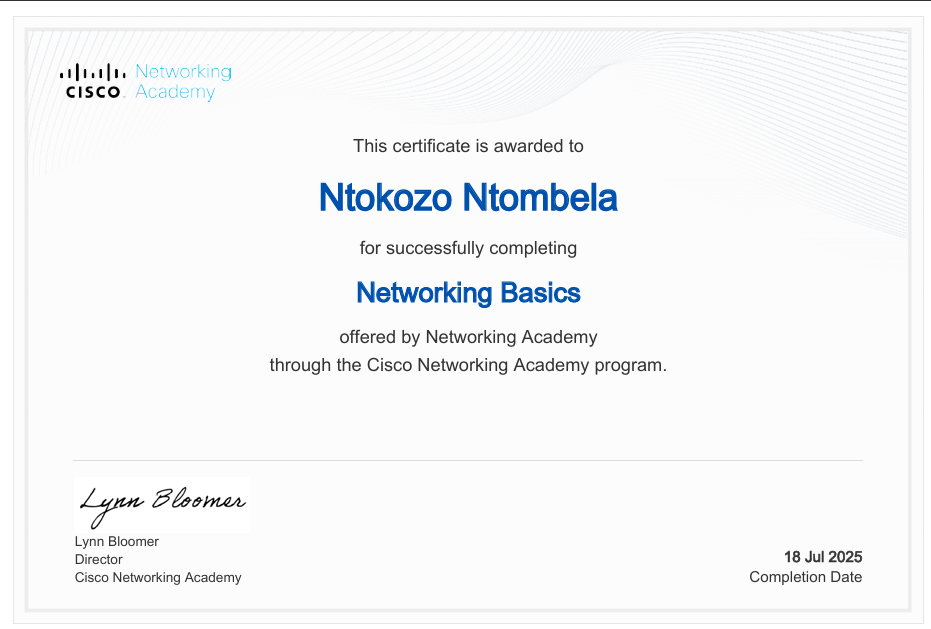
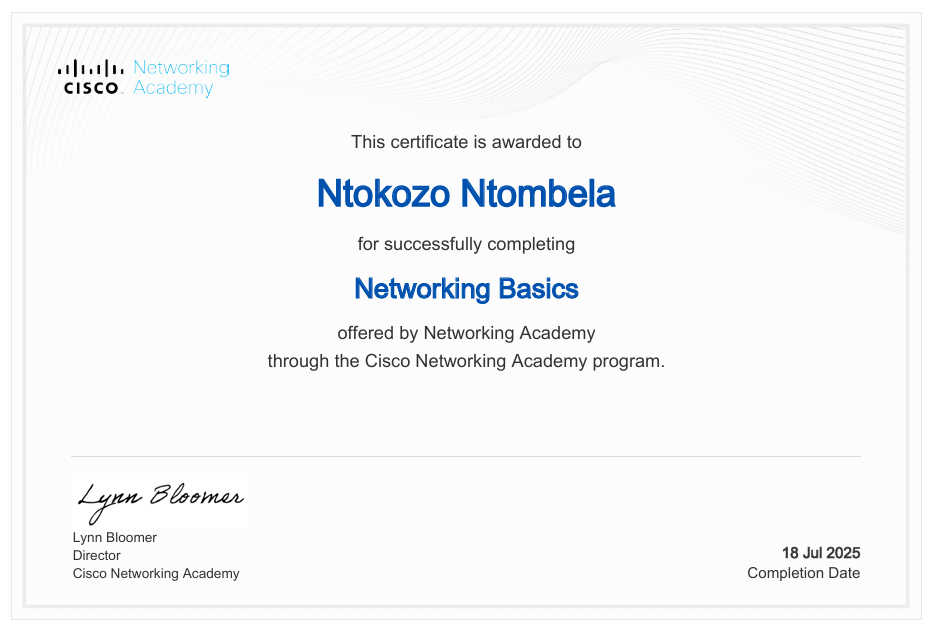
Update portfolio data: Add Honours degree, DataCamp cert, and pivot to DP-700

diff --git a/index.html b/index.html
@@ -996,19 +996,19 @@
             <div class="section-title">
                 <h2>About Me</h2>
             </div>
-            <div class="about-content">
-                <div class="about-text">
-                    <p>
-    I am a recent <strong>ICT Graduate</strong> from the Durban University of Technology, passionate about the intersection of <strong>Software Engineering</strong> and <strong>Data Engineering</strong>. While many graduates focus solely on code, I focus on the <em>lifecycle of data</em>—building automated systems that ingest, clean, and transform raw information into clear, actionable insights.
-</p>
-<p>
-    My technical foundation is built on <strong>Python, SQL, and Cloud Architectures</strong> (Azure & Databricks). I distinguish myself by applying <strong>DevOps and Security principles</strong> (gained from Cisco & FNB training) to my pipelines, ensuring that the systems I build are not just functional, but scalable, secure, and robust.
-</p>
-<p>
-    Having successfully deployed end-to-end solutions like <strong>InsightOps</strong>, I am actively seeking a <strong>Data Engineering Internship</strong>. I am eager to apply my hands-on skills in ETL automation, Big Data processing (Spark), and cloud infrastructure to solve real-world business challenges.
-</p>
-                </div>
-            </div>
+           <div class="about-content">
+    <div class="about-text">
+        <p>
+            I am an ICT Graduate (Class of 2025) and incoming Bachelor of ICT Honours student at the Durban University of Technology. My focus is on the intersection of Software Engineering and Data Engineering, with a strong interest in the full data lifecycle from ingestion and transformation to analytics ready delivery.
+        </p>
+        <p>
+            I work with Python, SQL, Azure, and Databricks to build automated data pipelines that are reliable, maintainable, and aligned with real-world business needs. My academic foundation, combined with industry certifications such as DataCamp Associate Data Engineer , Azure Data Fundamentals andDatabricks Fundamentals, supports my ability to design scalable data workflows and apply sound data practices.
+        </p>
+        <p>
+            Through projects like InsightOps and an automated Job Market Pipeline, I have built end-to-end solutions involving data ingestion, cleaning, transformation, and delivery for analysis. I am currently seeking Graduate Data Engineer or Data Engineering Internship role where I can contribute to building robust data platforms while continuing to grow in cloud and data engineering.
+        </p>
+    </div>
+</div>
         </div>
     </section>
 
@@ -1024,8 +1024,8 @@
                 <div class="skill-category">
                     <h3>Data Engineering & Big Data</h3>
                     <ul class="skills-list">
-                        <li><i class="fas fa-bolt"></i> <strong>Apache Spark</strong> (PySpark)</li>
-                        <li><i class="fas fa-layer-group"></i> <strong>Databricks  `</strong>  & Delta Lake</li>
+                        <li><i class="fas fa-bolt"></i> Apache Spark (PySpark)</li>
+                        <li><i class="fas fa-layer-group"></i> Databricks  & Delta Lake</li>
                         <li><i class="fas fa-cogs"></i> ETL/ELT Pipeline Design</li>
                         <li><i class="fas fa-database"></i> SQL</li>
                         <li><i class="fas fa-table"></i> Pandas & NumPy</li>
@@ -1036,7 +1036,7 @@
                 <div class="skill-category">
                     <h3>Software & Backend</h3>
                     <ul class="skills-list">
-                        <li><i class="fab fa-python"></i> <strong>Python</strong> (Scripting & OOP)</li>
+                        <li><i class="fab fa-python"></i> Python (Scripting & OOP)</li>
                         <li><i class="fas fa-server"></i> Flask Web Framework</li>
                         <li><i class="fas fa-code"></i> REST API Development</li>
                         <li><i class="fas fa-code-branch"></i> Git & GitHub Version Control</li>
@@ -1048,7 +1048,7 @@
                 <div class="skill-category">
                     <h3>Cloud & Security</h3>
                     <ul class="skills-list">
-                        <li><i class="fab fa-microsoft"></i> <strong>Azure Data Services</strong></li>
+                        <li><i class="fab fa-microsoft"></i> Azure Data Services</li>
                         <li><i class="fas fa-cloud"></i> Render Cloud Deployment</li>
                         <li><i class="fab fa-linux"></i> Linux Administration (CLI)</li>
                         <li><i class="fas fa-shield-alt"></i> Cybersecurity Fundamentals</li>
@@ -1081,18 +1081,6 @@
             </div>
 
             <div class="certificate-card">
-                <div class="certificate-img" style="background-image: url('images/spark.png'); background-size: contain; background-repeat: no-repeat; background-position: center;"></div>
-                <div class="certificate-content">
-                    <h3>IBM Spark Fundamentals I</h3>
-                    <p>Specialized certification in Big Data processing. Mastered Resilient Distributed Datasets (RDDs) and data transformations using Apache Spark.</p>
-                    <div class="project-links">
-                        <div class="certificate-date">Issued: Nov 2025</div>
-                        
-                    </div>
-                </div>
-            </div>
-
-            <div class="certificate-card">
                 <div class="certificate-img" style="background-image: url('images/azure.png'); background-size: contain; background-repeat: no-repeat; background-position: center;"></div>
                 <div class="certificate-content">
                     <h3>Azure Data Fundamentals (DP-900)</h3>
@@ -1104,10 +1092,34 @@
                 </div>
             </div>
 
+            <div class="certificate-card">
+                <div class="certificate-img" style="background-image: url('images/datacamp.png'); background-size: contain; background-repeat: no-repeat; background-position: center;"></div>
+                <div class="certificate-content">
+                    <h3>DataCamp Associate Data Engineer</h3>
+                    <p>Hands-on certification validating applied skills in Python, SQL, and building robust data pipelines and architectures.</p>
+                    <div class="project-links">
+                        <div class="certificate-date">Issued: Feb 20, 2026</div>
+                        <a href="https://www.datacamp.com/certificate/DEA0010659484472" target="_blank" class="credential-btn"><i class="fas fa-external-link-alt"></i> View Credential</a>
+                    </div>
+                </div>
+            </div>
+
         </div> 
+        
         <div id="more-certificates" style="display: none;">
             <div class="cert-grid">
                 
+                <div class="certificate-card">
+                    <div class="certificate-img" style="background-image: url('images/spark.png'); background-size: contain; background-repeat: no-repeat; background-position: center;"></div>
+                    <div class="certificate-content">
+                        <h3>IBM Spark Fundamentals I</h3>
+                        <p>Specialized certification in Big Data processing. Mastered Resilient Distributed Datasets (RDDs) and data transformations using Apache Spark.</p>
+                        <div class="project-links">
+                            <div class="certificate-date">Issued: Nov 2025</div>
+                        </div>
+                    </div>
+                </div>
+
                 <div class="certificate-card">
                     <div class="certificate-img" style="background-image: url('images/FNB.png'); background-size: contain; background-repeat: no-repeat; background-position: center;"></div>
                     <div class="certificate-content">
@@ -1115,7 +1127,6 @@
                         <p>Hands-on mobile and backend engineering training. Covered GitHub, API design, UX principles, backend services, and AI-driven app features.</p>
                         <div class="project-links">
                             <div class="certificate-date">Issued: July 2025</div>
-                           
                         </div>
                     </div>
                 </div>
@@ -1127,7 +1138,6 @@
                         <p>Demonstrated knowledge of machine learning, computer vision, and Natural Language Processing (NLP) workloads on Azure.</p>
                         <div class="project-links">
                             <div class="certificate-date">Issued: July 18, 2025</div>
-                           
                         </div>
                     </div>
                 </div>
@@ -1151,19 +1161,6 @@
                         <p>Mastered the Linux command line (CLI), file permissions, and system administration basics.</p>
                         <div class="project-links">
                             <div class="certificate-date">Issued: Oct 2024</div>
-                           
-                        </div>
-                    </div>
-                </div>
-
-                <div class="certificate-card">
-                    <div class="certificate-img" style="background-image: url('images/Ne.png'); background-size: contain; background-repeat: no-repeat; background-position: center;"></div>
-                    <div class="certificate-content">
-                        <h3>Network basics</h3>
-                        <p>Gained a foundational understanding of network architecture, the OSI model, TCP/IP protocols, and basic router/switch configuration.</p>
-                        <div class="project-links">
-                            <div class="certificate-date">Issued: 2025</div>
-                            <a href="https://www.credly.com/badges/e32581ad-3b20-4302-87fd-2eed54ffef24" target="_blank" class="credential-btn"><i class="fas fa-external-link-alt"></i> View Credential</a>
                         </div>
                     </div>
                 </div>
@@ -1175,7 +1172,6 @@
                         <p>Training on the Lakehouse Platform. Learned to unify data warehousing.</p>
                         <div class="project-links">
                             <div class="certificate-date">Issued: Nov 2025</div>
-                            
                         </div>
                     </div>
                 </div>
@@ -1190,8 +1186,7 @@
     </div>
 </section>
 
-   <!-- Timeline Section -->
-    <section id="timeline" style="background-color: var(--bg);">
+   <section id="timeline" style="background-color: var(--bg);">
         <div class="container">
             <div class="section-title">
                 <h2>Education & Experience</h2>
@@ -1199,58 +1194,63 @@
             <div class="timeline">
                 <div class="timeline-progress" id="timelineProgress"></div>
                 
-                <!-- Degree -->
                 <div class="timeline-item">
                     <div class="timeline-dot"></div>
                     <div class="timeline-content">
-                        <div class="timeline-date">2023 - 2025 (Graduated)</div>
-                        <h3>ICT Degree</h3>
+                        <div class="timeline-date">2023 - 2025</div>
+                        <h3>Bachelor of ICT</h3>
                         <p>Durban University of Technology</p>
-                        <p><strong>Completed.</strong> Specialized in Application Development and Data Systems. Final year focused on backend logic, database management, and system security.</p>
+                        <p>Graduated. Specialized in Application Development. Achieved distinctions in Business Intelligence and Machine Intelligence modules.</p>
                     </div>
                 </div>
 
-                <!-- Cisco & Linux Era -->
                 <div class="timeline-item">
                     <div class="timeline-dot"></div>
                     <div class="timeline-content">
                         <div class="timeline-date">2024 - May 2025</div>
                         <h3>Infrastructure & Security</h3>
                         <p>Cisco Networking Academy</p>
-                        <p>Completed <strong>Cybersecurity</strong> and <strong>Linux Unhatched</strong> certifications. Built a strong foundation in server administration and network defense.</p>
+                        <p>Completed Cybersecurity and Linux Unhatched certifications. Built a strong foundation in server administration and network defense.</p>
                     </div>
                 </div>
 
-                <!-- FNB & Data Engineering Pivot -->
                 <div class="timeline-item">
                     <div class="timeline-dot"></div>
                     <div class="timeline-content">
                         <div class="timeline-date">Mid 2025</div>
                         <h3>Full Stack Engineering</h3>
                         <p>FNB App Academy & DUT</p>
-                        <p>Intensive training in modern software architecture, API development, and banking systems.</p>
+                        <p>Intensive training in modern software architecture, API development, and enterprise banking systems.</p>
                     </div>
                 </div>
 
-                <!-- Big Data Specialization -->
                 <div class="timeline-item">
                     <div class="timeline-dot"></div>
                     <div class="timeline-content">
                         <div class="timeline-date">Late 2025</div>
                         <h3>Cloud Data Engineering</h3>
                         <p>IBM & Microsoft</p>
-                        <p>Earned certifications in <strong>Azure Data Fundamentals</strong>, <strong>Databricks</strong>, and <strong>Apache Spark</strong>. Transitioned from software dev to building scalable data pipelines.</p>
+                        <p>Earned certifications in Azure Data Fundamentals, Databricks, and Apache Spark. Transitioned from software dev to building scalable data pipelines.</p>
                     </div>
                 </div>
 
-                <!-- Current Status -->
+                <div class="timeline-item">
+                    <div class="timeline-dot"></div>
+                    <div class="timeline-content">
+                        <div class="timeline-date">2026 - Present</div>
+                        <h3>Bachelor of ICT Honours</h3>
+                        <p>Durban University of Technology</p>
+                        <p>Currently Enrolled. Specializing in Advanced Data Analytics, Cloud Computing, and Advanced Cybersecurity. Recently earned the DataCamp Associate Data Engineer certification.</p>
+                    </div>
+                </div>
+
                 <div class="timeline-item">
                     <div class="timeline-dot"></div>
                     <div class="timeline-content">
                         <div class="timeline-date">Present</div>
-                        <h3>Data Engineer</h3>
+                        <h3>Graduate Data Engineer</h3>
                         <p>Open to Work</p>
-                        <p>Successfully deployed and built multiple cloud-native ETL pipelines. Ready to join a team as a Data Engineer.</p>
+                        <p>Successfully deployed end-to-end cloud-native ETL pipelines. Ready to join a team as a Data Engineer.</p>
                     </div>
                 </div>
             </div>
@@ -1261,7 +1261,7 @@
     <div class="container">
         <div class="section-title">
             <h2>Featured Projects</h2>
-            <p>My portfolio focuses on the three pillars of modern Data Engineering: <strong>Cloud Architecture</strong>, <strong>Data Modeling</strong>, and <strong>Process Automation</strong>.</p>
+            <p>My portfolio focuses on the three pillars of modern Data Engineering: Cloud Architecture, Data Modeling, and Process Automation.</p>
         </div>
 
         <div class="projects-grid">
@@ -1272,7 +1272,7 @@
                 </div>
                 <div class="project-content">
                     <h3>Databricks Medallion Pipeline</h3>
-                    <p><strong>Cloud Big Data.</strong> An end-to-end ELT pipeline using PySpark and Delta Lake. I implemented a <strong>Medallion Architecture</strong> (Bronze → Silver → Gold) with Schema Enforcement and Time Travel for enterprise-grade data quality.</p>
+                    <p>Cloud Big Data. An end-to-end ELT pipeline using PySpark and Delta Lake. I implemented a Medallion Architecture (Bronze → Silver → Gold) with Schema Enforcement and Time Travel for enterprise-grade data quality.</p>
                     <div class="project-tech">
                         <span class="tech-tag">Databricks</span>
                         <span class="tech-tag">PySpark</span>
@@ -1291,7 +1291,7 @@
                 </div>
                 <div class="project-content">
                     <h3>InsightOps BI System</h3>
-                    <p><strong>Data Warehousing.</strong> A production-grade BI system built on a <strong>Star Schema</strong> with surrogate keys. It transforms raw e-commerce data into actionable KPIs (Churn, Profit Margin) and generates automated business alerts.</p>
+                    <p>Data Warehousing. A production-grade BI system built on a Star Schema with surrogate keys. It transforms raw e-commerce data into actionable KPIs (Churn, Profit Margin) and generates automated business alerts.</p>
                     <div class="project-tech">
                         <span class="tech-tag">Python ETL</span>
                         <span class="tech-tag">Star Schema</span>
@@ -1311,7 +1311,7 @@
                 </div>
                 <div class="project-content">
                     <h3>SA Job Market Pipeline</h3>
-                    <p><strong>Advanced Automation.</strong> A daily self-healing pipeline that scrapes job data. Features include a <strong>"Zombie Filter"</strong> for expired jobs, hybrid API/Web Scraping ingestion, and <strong>Cron Job</strong> scheduling on Render.</p>
+                    <p>Advanced Automation. A daily self-healing pipeline that scrapes job data. Features include a "Zombie Filter" for expired jobs, hybrid API/Web Scraping ingestion, and Cron Jobs scheduling on Render.</p>
                     <div class="project-tech">
                         <span class="tech-tag">PostgreSQL</span>
                         <span class="tech-tag">Cron Jobs</span>
